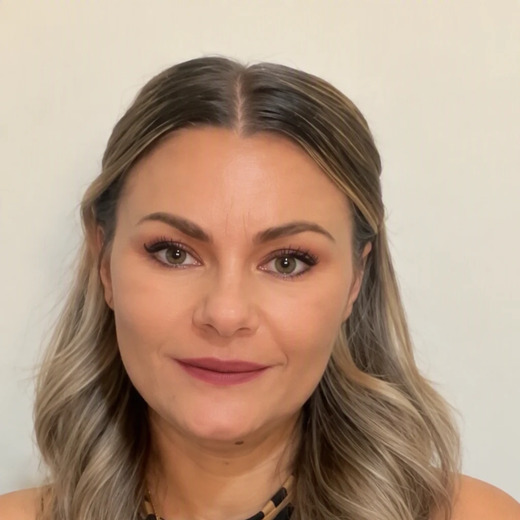
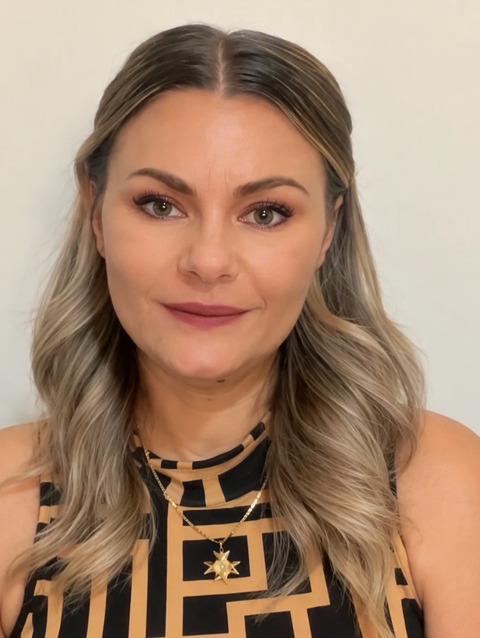
Homepage: oval photo, merge bio card with the CTA, fix footer
Headshot recropped to show the full head and more of the shirt, in
an oval frame. "More about me" now sits directly under the bio card
instead of a separate band further down the page. Footer tagline is
gold again, and the fine-print text is shifted clear of the gold
wedge so the pink is readable.

Claude-Session: https://claude.ai/code/session_01699rvve7kmkiXy34Rh68ig

diff --git a/assets/style.css b/assets/style.css
@@ -273,12 +273,15 @@ table.compare th { background: var(--ice); color: var(--navy); font-family: 'Fre
 }
 .person-inline span { font-size: 0.95rem; color: var(--grey); }
 
+.bio-wrap { background: #fff; border-radius: 20px; box-shadow: 0 8px 24px rgba(23,33,77,0.08); overflow: hidden; margin: 1.8em 0 1.4em; }
 .bio-card {
-  display: flex; gap: 22px; align-items: stretch; background: #fff; border-radius: 20px;
-  padding: 26px; box-shadow: 0 8px 24px rgba(23,33,77,0.08); margin: 0 0 1.4em;
+  display: flex; gap: 22px; align-items: stretch; padding: 26px;
 }
+.bio-cta { background: var(--pink-tint); text-align: center; padding: 18px 20px; }
+.bio-cta p { margin: 0; font-family: 'Fredoka', sans-serif; color: var(--pink-text); font-size: 1.05rem; }
+.bio-cta a { color: var(--pink-text); font-weight: 700; }
 .bio-card img {
-  width: 90px; height: 100%; object-fit: cover; border-radius: 14px;
+  width: 90px; height: 100%; object-fit: cover; border-radius: 50%/18%;
   box-shadow: 0 3px 10px rgba(23,33,77,0.18); flex-shrink: 0;
 }
 .bio-card h3 { margin: 0 0 8px; font-size: 1.2rem; }
@@ -286,7 +289,7 @@ table.compare th { background: var(--ice); color: var(--navy); font-family: 'Fre
 .bio-card .cred { color: var(--pink-text); font-size: 0.88rem; font-weight: 700; margin-top: 10px; }
 @media (max-width: 540px) {
   .bio-card { flex-direction: column; align-items: center; text-align: center; }
-  .bio-card img { width: 100%; max-width: 220px; height: 220px; }
+  .bio-card img { width: 100%; max-width: 220px; height: 220px; border-radius: 50%; }
 }
 
 .source {
@@ -316,7 +319,7 @@ footer.site::before {
   clip-path: polygon(0 0, 55% 0, 20% 100%, 0 100%);
   opacity: 0.9;
 }
-footer.site .wrap { max-width: 1020px; }
+footer.site .wrap { max-width: 1020px; padding-left: 134px; }
 .foot-brand { display: flex; align-items: center; gap: 12px; margin-bottom: 16px; }
 .foot-brand .badge {
   width: 46px; height: 46px; border-radius: 50%; background: #fff;
@@ -326,9 +329,9 @@ footer.site .wrap { max-width: 1020px; }
 .foot-brand .badge img { width: 40px; height: 40px; }
 .foot-brand div { display: flex; flex-direction: column; line-height: 1.3; }
 .foot-brand strong { font-family: 'Fredoka', sans-serif; color: #fff; font-size: 1.1rem; font-weight: 600; }
-.foot-brand span { color: var(--pink); font-size: 0.92rem; font-style: italic; }
+.foot-brand span { color: var(--gold); font-size: 0.92rem; font-style: italic; }
 footer.site a { color: var(--pink); }
-footer.site .fine { font-size: 0.85rem; color: var(--pink); margin-top: 10px; }
+footer.site .fine { font-size: 0.85rem; color: var(--pink); margin-top: 10px; max-width: 720px; }
 
 .pill-list { list-style: none; padding: 0; margin: 0 0 1.4em; }
 .pill-list li { padding-left: 1.5em; position: relative; }
@@ -343,4 +346,6 @@ footer.site .fine { font-size: 0.85rem; color: var(--pink); margin-top: 10px; }
   .person { grid-template-columns: 1fr; text-align: center; }
   .person img { margin: 0 auto; }
   .person-inline { flex-direction: column; text-align: center; }
+  footer.site::before { display: none; }
+  footer.site .wrap { padding-left: 24px; }
 }

diff --git a/index.html b/index.html
@@ -33,12 +33,17 @@
 
 <main>
   <div class="wrap">
-    <div class="bio-card" style="margin-top:1.8em;">
-      <img src="assets/images/katie-headshot.jpg" alt="Katie Hursey">
-      <div>
-        <h3>Hi, I'm Katie</h3>
-        <p>A Florida-certified teacher with 14 years in education, here to make the rules make sense.</p>
-        <p class="cred">K-6 certified · ESOL endorsed · Approved Step Up provider</p>
+    <div class="bio-wrap">
+      <div class="bio-card">
+        <img src="assets/images/katie-headshot.jpg" alt="Katie Hursey">
+        <div>
+          <h3>Hi, I'm Katie</h3>
+          <p>A Florida-certified teacher with 14 years in education, here to make the rules make sense.</p>
+          <p class="cred">K-6 certified · ESOL endorsed · Approved Step Up provider</p>
+        </div>
+      </div>
+      <div class="bio-cta">
+        <p>Let's make homeschooling feel lighter. 💛 <a href="about.html">More about me →</a></p>
       </div>
     </div>
     <div class="badge-row" style="margin-top:1em;">
@@ -74,13 +79,6 @@
       </a>
     </div>
   </div>
-
-  <section class="pinkband">
-    <div class="wrap">
-      <p>Let's make homeschooling feel lighter. 💛</p>
-      <p style="font-family:'Nunito',sans-serif; font-size:0.95rem; color:var(--grey); margin-top:10px;"><a href="about.html">More about me →</a></p>
-    </div>
-  </section>
 </main>
 
 <footer class="site">
